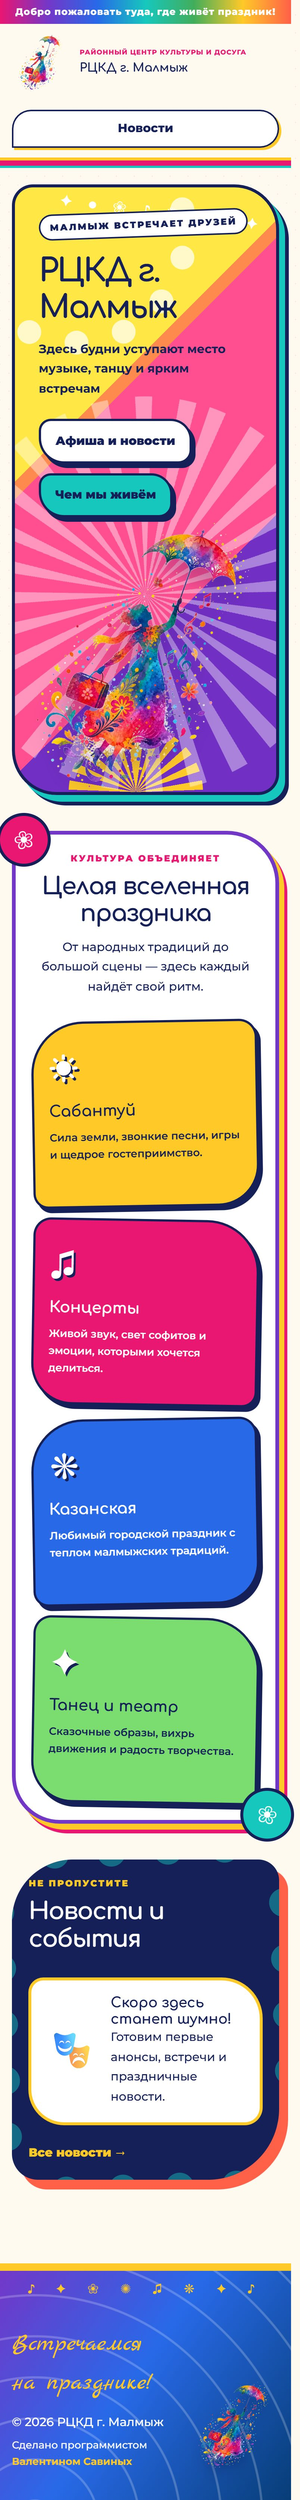
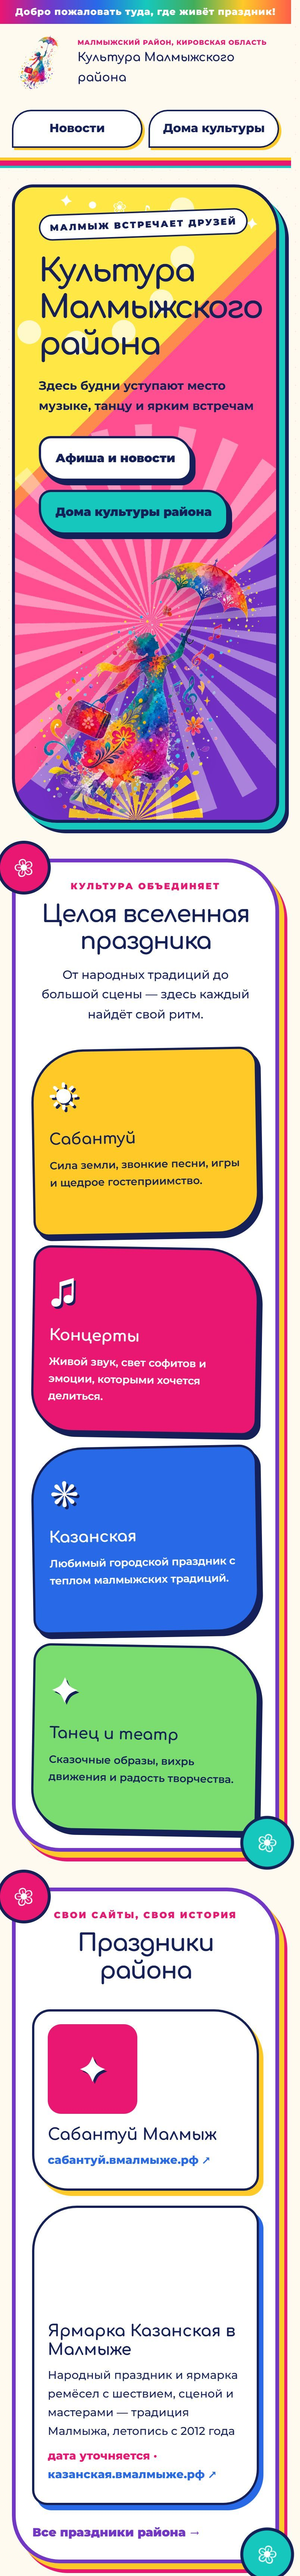
feat: пересъёмка карточки портала культуры по #079, ПОЗВОНИ недоступен (#33)
Кадры domkultury/ сняты заново с культура.вмалмыже.рф уже как портал района
(витрина + мастера); мастера обрезаны выше ленты новостей — в заголовках ФИО
(предохранитель п.1). Факт об оформлении в works.ts переписан под портал.
pozvoni/ не снят: сайт не принимал соединений 05.09, noScreenshotReason оставлен.
README съёмки: новая строка pozvoni, грабля с флагами headless Chrome.
Handoff обновлён по шагу нитки (D-066).

diff --git a/web/content/works.ts b/web/content/works.ts
@@ -509,7 +509,7 @@ export const WORKS: Work[] = [
       { claim: 'Портал открыт и работает — можно зайти и проверить самому.', asOf: '2026-09-04', verify: 'external' },
       { claim: 'Основной адрес — культура.вмалмыже.рф; прежний домкультуры.вмалмыже.рф отвечает перенаправлением, старые ссылки не теряются.', asOf: '2026-09-04', verify: 'external' },
       { claim: 'Первый сбор материалов прошёл по всем 33 сообществам учреждений района: 632 записи и 2457 медиафайлов легли в портал черновиками, до решения редактора о публикации.', asOf: '2026-09-04', verify: 'measured' },
-      { claim: 'Собственное фирменное оформление с эмблемой учреждения и страницами направлений — вместо типового каркаса.', asOf: '2026-08-05', verify: 'external' },
+      { claim: 'Собственное фирменное оформление с эмблемой портала, разделами праздников и страницами домов культуры района — вместо типового каркаса.', asOf: '2026-09-05', verify: 'external' },
     ],
     plans: [
       'Калининский СДК переезжает под крышу портала отдельным разделом: его сайт закрывается, адреса страниц перенаправляются один в один, решения о публикации и рубрики сохраняются.',

diff --git a/docs/SESSION_HANDOFF.md b/docs/SESSION_HANDOFF.md
@@ -2,9 +2,18 @@
 
 > Sticky-note для непрерывности сессий. Обновляется **по шагам нитки в том же PR, что и работа** (D-066); `/close_session` — страховка. История — `git log -- docs/SESSION_HANDOFF.md`.
 
-**Status:** ACTIVE — нитка закрыта и выкачена (PR #31 в проде); конструктор техзадания — второй PR
-**Updated:** 2026-09-04 (каталог сверен, ложь снята, SEO/GEO выкачен, «Журнал грабель» и «Черновик техзадания»)
-**Branch:** feat/tehzadanie-brief-builder
+**Status:** ACTIVE — нитка 05.09: пересъёмка карточек по #079; портал культуры снят, ПОЗВОНИ недоступен
+**Updated:** 2026-09-05 (кадры `domkultury/` переняты с портала района; ПОЗВОНИ не отвечал — долг остаётся)
+**Branch:** feat/reshoot-domkultury
+
+## Нитка 05.09: пересъёмка `domkultury/` и `pozvoni/`
+
+- **`domkultury/` переснят** с `культура.вмалмыже.рф` уже как портал района: витрина (1280×800, 750×1440) и мастера в `assets/screenshots/`. Факт об оформлении в `works.ts` переписан под портал (asOf 05.09).
+- **Мастера обрезаны выше ленты «Новости домов культуры»**: в заголовках новостей ФИО людей, включая некролог. Предохранитель п.1 — в публичный репо не кладём. Первый экран чист, витрина его и показывает.
+- **`pozvoni/` не снят**: 2026-09-05 сайт не принимал соединений ни по http, ни по https (DNS отвечал, TCP — нет; курлом три раза подряд). По грабле 4 это не «сайт лежит», а «с этой машины сейчас не доходит». `noScreenshotReason` у карточки оставлен. Реестр Мозга (сверен 05.09) адрес подтверждает.
+- **Новая грабля:** headless Chrome давал `ERR_CONNECTION_TIMED_OUT` там, где curl подключался за 20 мс. Лечится флагами `--disable-quic --disable-features=UseDnsHttpsSvcb,AsyncDns --disable-ipv6` — записано в `assets/screenshots/README.md`.
+
+Приёмка: `typecheck` чист, `build` зелёный (44 маршрута, 36 html), гейт экспорта зелёный, кадры в `out/shots/domkultury/`.
 
 ## Шаг 4: «Черновик техзадания» (`/tehzadanie/`)
 
@@ -92,7 +101,7 @@
 
 ## Следующий шаг
 
-1. **Пересъёмка двух карточек — долг шага 1.** У `domkultury/` кадры от 05.08 снимали сайт одного ДК на прежнем адресе, теперь это портал района. У `pozvoni/` кадров нет вовсе. Снимать по методу #079, с прода, прокрутив страницу до съёмки (грабля 5).
+1. **Съёмка `pozvoni/` — остаток долга.** 05.09 сайт не отвечал с этой машины; повторить `curl` к `позвони.вмалмыже.рф`, при 200 — снять по #079 (рецепт и Chrome-флаги в `assets/screenshots/README.md`), заменить `noScreenshotReason` на `shots: webShots('pozvoni', 'позвони.вмалмыже.рф')`. Если недоступность держится — письмо Мозгу (карточка TaksiMalmyzh).
 2. **Сайт РМЗ скрыт** — публичность требует решения администрации завода, его нет. Вернуть показ снятием `hidden: true` в `works.ts`.
 3. **Даты замеров стареют.** Числа Сарафана, коммиты Матрицы и Гоньбы — пересматривать не реже раза в квартал; ближайший срок — до конца октября 2026.
 4. Держать каталог в синхроне с реестром Мозга — правится руками, автогенерации нет осознанно. У проекта-менеджера кредитов ссылка на прод появится, когда у него будет свой домен.

diff --git a/assets/screenshots/README.md b/assets/screenshots/README.md
@@ -1,6 +1,6 @@
 # Скриншоты прод-сайтов — метод pool #079
 
-Съёмка: **2026-08-01** (первичная) и **2026-08-05** (пересъёмка ДК Малмыжа и Калининской ЦКС после редизайна и наполнения), puppeteer-core headless + системный Chrome.
+Съёмка: **2026-08-01** (первичная), **2026-08-05** (пересъёмка ДК Малмыжа и Калининской ЦКС после редизайна и наполнения) и **2026-09-05** (пересъёмка портала культуры района), puppeteer-core headless + системный Chrome.
 Viewport: десктоп 1440×900 (@1x), мобильный 390×844 (@2x, isMobile). Мастера — `fullPage`, лёгкие кадры витрины — первый экран (1280×800 / 375×720 @2x), JPEG q82.
 Счётчики Метрики (`mc.yandex.ru`) и LiveInternet (`counter.yadro.ru`) резались перехватом запросов **до** съёмки.
 
@@ -13,7 +13,8 @@ Viewport: десктоп 1440×900 (@1x), мобильный 390×844 (@2x, isMo
 | `inter/` | интер.вмалмыже.рф | |
 | `vmalmyzhe/` | вмалмыже.рф | |
 | `vhod-services/` | вход.вмалмыже.рф/services | публичный каталог сервисов (страница без стилей — так на проде) |
-| `domkultury/` | культура.вмалмыже.рф | переснят 2026-08-05, когда это был сайт одного ДК на `домкультуры.вмалмыже.рф`; после разворота в портал района **просится пересъёмка** |
+| `domkultury/` | культура.вмалмыже.рф | переснят 2026-09-05 уже как портал района. Мастера **обрезаны выше ленты «Новости домов культуры»**: в заголовках новостей — ФИО людей, предохранитель п.1 не пускает их в публичный репо; кадры витрины — первый экран, он чистый |
+| `pozvoni/` | позвони.вмалмыже.рф | **кадров нет.** 2026-09-05 сайт не принимал соединения ни по http, ни по https с этой машины (DNS отвечал); съёмка отложена, у карточки стоит `noScreenshotReason` |
 | `sdk-kalinino/` | сдк-калинино.вмалмыже.рф | кадры сохранены, но карточка снята с витрины 2026-09-04: учреждение въезжает разделом в портал культуры |
 
 ## Матрица РМЗ — не прод-сайт, отдельный порядок
@@ -37,3 +38,6 @@ Viewport: десктоп 1440×900 (@1x), мобильный 390×844 (@2x, isMo
 (1200×750) — в вертикальной рамке он был бы на три четверти пуст.
 
 Пересъёмка: скрипт эфемерный (scratchpad сессии), рецепт — выше и в `AGENTS.md` §витрина.
+Грабля 2026-09-05: headless Chrome получал `ERR_CONNECTION_TIMED_OUT` там, где curl подключался
+за 20 мс — помогли флаги `--disable-quic --disable-features=UseDnsHttpsSvcb,AsyncDns --disable-ipv6`.
+Перед fullPage страницу прокрутить до низа (lazy-loading), затем вернуть наверх.
